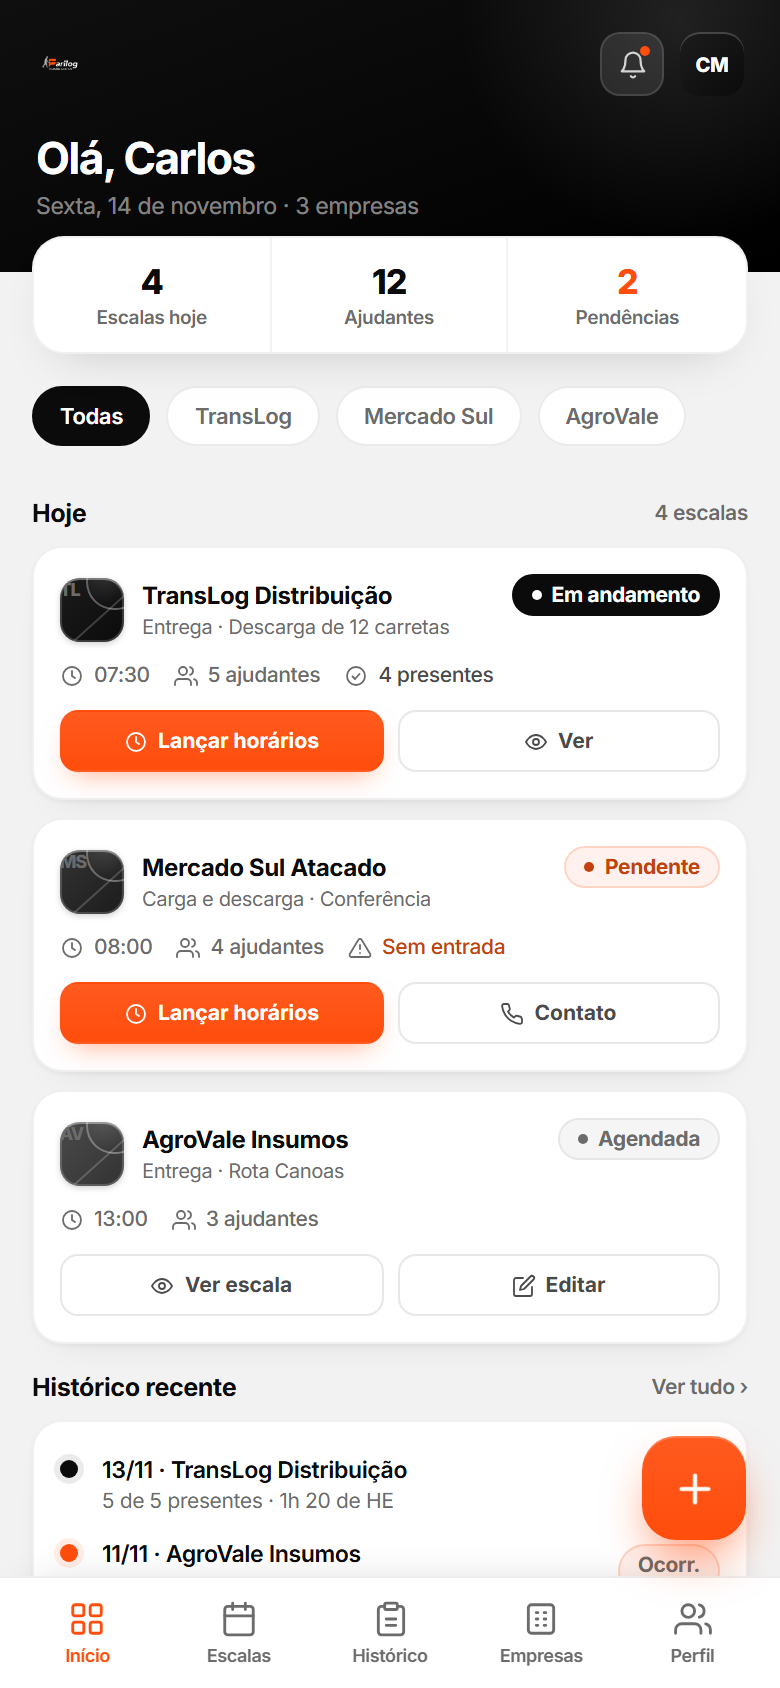
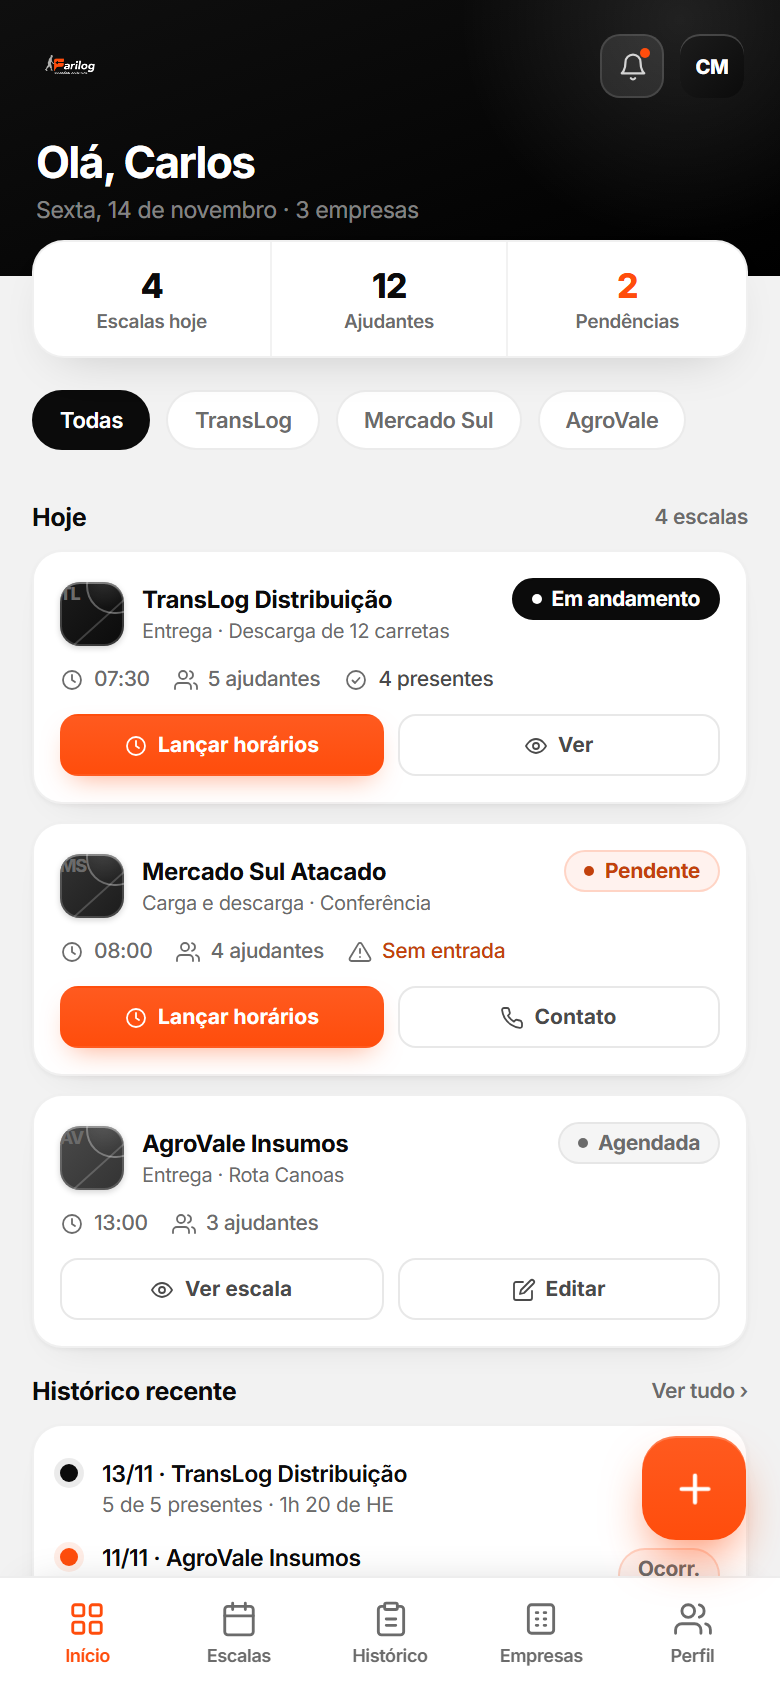
feat: sub-aba encarregados no admin (conta, criar conta e resetar senha)
- Prototipo da sub-aba Operacional > Encarregados: desempenho por empresa
  (diarias, faltas, pendencias, presenca, faturado) e historico de vinculos
- Modais de criar conta com senha direta e resetar senha sem e-mail
- Logo do encarregado maior no header mobile (24px -> 34px)
- Novas capturas 03e/03f/03g e demais shots regerados

diff --git a/prototype/encarregado-preview.html b/prototype/encarregado-preview.html
@@ -318,7 +318,7 @@ body.mobile .mcontent{padding:0 16px 104px}
 body.mobile .mheader{padding:16px 18px 26px;background:linear-gradient(160deg,#0F0F0F 0%,#000000 100%);color:#fff;position:relative;overflow:hidden}
 body.mobile .mheader:after{content:'';position:absolute;width:240px;height:240px;border-radius:50%;background:radial-gradient(circle,rgba(255,255,255,.10),transparent 65%);top:-110px;right:-70px}
 .mheader-top{display:flex;align-items:center;justify-content:space-between;position:relative;z-index:1}
-.mheader-top img{height:24px;max-width:100px;object-fit:contain}
+.mheader-top img{height:34px;max-width:130px;object-fit:contain}
 .mheader h2{font-size:22px;font-weight:700;letter-spacing:-.035em;margin-top:18px;position:relative;z-index:1}
 .mheader p{font-size:11.5px;color:rgba(255,255,255,.52);margin-top:4px;position:relative;z-index:1}
 .mheader .htools{display:flex;gap:8px;align-items:center;z-index:1;position:relative}
@@ -441,6 +441,7 @@ const NAV = {
   admin: [
     {k:'visao', label:'Visão Geral', icon:'grid'},
     {k:'operacional', label:'Operacional', icon:'briefcase', chevron:true},
+    {k:'operacional-encarregados', label:'Encarregados', icon:'userCheck', sub:true},
     {k:'financeiro', label:'Financeiro', icon:'dollar', chevron:true},
     {k:'rh', label:'RH', icon:'users', chevron:true},
     {k:'empresas', label:'Empresas', icon:'building'},
@@ -477,8 +478,8 @@ function sidebar(role, active){
     <div class="logo-wrap">${logoImg(72)}</div>
     <p class="menu-label">Menu</p>
     <nav class="nav">
-      ${items.map(it=>`<a class="nav-link ${active===it.k?'active':''}" href="#${home}?tab=${it.k}">
-        ${ic(it.icon,17)}
+      ${items.map(it=>`<a class="nav-link ${active===it.k?'active':''}" href="#${home}?tab=${it.k}" ${it.sub?'style="padding-left:38px;font-size:12.5px;opacity:.92"':''}>
+        ${ic(it.icon,it.sub?14:17)}
         <span>${it.label}</span>
         ${it.badge?`<span class="nav-badge">${it.badge}</span>`:''}
         ${it.chevron?`<span style="margin-left:auto;color:#8A8A8A">${ic('chevronDown',12)}</span>`:''}
@@ -751,6 +752,188 @@ function pickItem(c, sel){
     ${compAv(c,28,8,9)}
     <div style="min-width:0;flex:1"><b>${c.name}</b><span>${c.city}</span></div>
     <span class="check">${sel?ic('check',11,2.6):''}</span>
+  </div>`;
+}
+
+/* ============================================================
+   ADMIN — CONTA DO ENCARREGADO
+   Sub-aba dentro de Operacional: andamento das diárias, faltas,
+   pendências, % de presença e total faturado por empresa,
+   com histórico de vínculos (trocas de encarregado registradas).
+============================================================ */
+const LIDER_DESEMPENHO = [
+  {co:'tl', diarias:42, faltas:2, pend:1, presenca:95, faturado:6480},
+  {co:'ms', diarias:18, faltas:0, pend:0, presenca:100, faturado:2820},
+  {co:'av', diarias:11, faltas:1, pend:2, presenca:92, faturado:1720},
+];
+const LIDER_VINCULOS = [
+  {co:'tl', de:'01/08/2026', ate:'Atual', tipo:'atual'},
+  {co:'ms', de:'01/08/2026', ate:'Atual', tipo:'atual'},
+  {co:'av', de:'02/10/2026', ate:'Atual', tipo:'atual'},
+  {co:'ca', de:'15/03/2026', ate:'31/07/2026', tipo:'passado', quem:'Substituído por Juliana Rocha'},
+];
+const LIDER_ATIVIDADE = [
+  {d:'Hoje · 07:32', txt:'Lançou entrada de 4 ajudantes · TransLog Distribuição', ok:true},
+  {d:'Ontem · 18:05', txt:'Lançou saída e HE da escala · Mercado Sul Atacado', ok:true},
+  {d:'12/11 · 09:41', txt:'Registrou ocorrência: 1 falta não justificada · AgroVale', ok:false},
+  {d:'11/11 · 16:20', txt:'Finalizou escala com 3 de 4 presentes · AgroVale', ok:true},
+];
+
+function adminContaEncarregado(){
+  const lider = {n:'Carlos Mendes', email:'carlos.mendes@farilog.com', phone:'(51) 99876-1234', ini:'CM', color:'linear-gradient(135deg,#1C1C1C,#0B0B0B)', desde:'01/08/2026', ultimo:'há 12 min'};
+  const tot = LIDER_DESEMPENHO.reduce((s,r)=>({diarias:s.diarias+r.diarias, faltas:s.faltas+r.faltas, pend:s.pend+r.pend, faturado:s.faturado+r.faturado}),{diarias:0,faltas:0,pend:0,faturado:0});
+  const presencaMedia = Math.round(LIDER_DESEMPENHO.reduce((s,r)=>s+r.presenca,0)/LIDER_DESEMPENHO.length);
+  return `<div class="layout">
+    ${sidebar('admin','operacional')}
+    <div class="main">
+      ${topbar('Operacional · Encarregados','RF')}
+      <div class="page">
+        <button class="link" style="margin-bottom:14px;color:#6B6B6B">${ic('arrowLeft',13)} Voltar para Operacional</button>
+
+        <div class="card pad" style="margin-bottom:16px">
+          <div style="display:flex;align-items:center;justify-content:space-between;gap:14px;flex-wrap:wrap">
+            <div style="display:flex;align-items:center;gap:13px">
+              <span class="avatar" style="width:52px;height:52px;border-radius:15px;font-size:15px;background:${lider.color}">${lider.ini}</span>
+              <div>
+                <b style="font-size:16px;display:block;letter-spacing:-.02em">${lider.n}</b>
+                <span style="font-size:11.5px;color:#6B6B6B">${lider.email} · ${lider.phone}</span>
+                <div style="display:flex;gap:6px;margin-top:6px">
+                  <span class="badge b-green">Ativo</span>
+                  <span class="badge b-gray">Conta desde ${lider.desde}</span>
+                  <span class="badge b-gray">Último acesso ${lider.ultimo}</span>
+                </div>
+              </div>
+            </div>
+            <div style="display:flex;gap:8px;flex-wrap:wrap">
+              <button class="btn btn-ghost btn-sm" style="padding:9px 13px">${ic('whatsapp',13)} WhatsApp</button>
+              <button class="btn btn-soft btn-sm" style="padding:9px 13px">${ic('edit',13)} Editar dados</button>
+              <button class="btn btn-primary btn-sm" style="padding:9px 13px">${ic('lock',13)} Resetar senha</button>
+            </div>
+          </div>
+        </div>
+
+        <div class="stats" style="grid-template-columns:repeat(5,1fr)">
+          <div class="card stat"><span class="stat-ico" style="background:#F5F5F5;color:#333333">${ic('briefcase',19)}</span><div><b>${tot.diarias}</b><p>Diárias (30 dias)</p><small style="color:#6B6B6B">3 empresas ativas</small></div></div>
+          <div class="card stat"><span class="stat-ico" style="background:#FFF2EE;color:#FF4D0C">${ic('x',19)}</span><div><b>${tot.faltas}</b><p>Faltas</p><small style="color:#C2410C">2 não justificadas</small></div></div>
+          <div class="card stat"><span class="stat-ico" style="background:#FFF2EE;color:#FF4D0C">${ic('alert',19)}</span><div><b>${tot.pend}</b><p>Pendências</p><small style="color:#C2410C">Horários a lançar</small></div></div>
+          <div class="card stat"><span class="stat-ico" style="background:#F5F5F5;color:#333333">${ic('checkCircle',19)}</span><div><b>${presencaMedia}%</b><p>Presença</p><small style="color:#4A4A4A">Média das empresas</small></div></div>
+          <div class="card stat"><span class="stat-ico" style="background:#F5F5F5;color:#4A4A4A">${ic('dollar',19)}</span><div><b>${brl(tot.faturado)}</b><p>Faturado (30 dias)</p><small style="color:#6B6B6B">Diárias + HE das empresas dele</small></div></div>
+        </div>
+
+        <div class="card" style="margin-bottom:16px;overflow:hidden">
+          <div style="padding:14px 20px;border-bottom:1px solid rgba(0,0,0,.05);display:flex;align-items:center;justify-content:space-between;background:#FAFAFA">
+            <b style="font-size:12.5px">Desempenho por empresa</b>
+            <span class="badge b-gray">Últimos 30 dias</span>
+          </div>
+          <div class="table-head" style="grid-template-columns:1.4fr 90px 80px 100px 110px 130px">
+            <span>Empresa</span><span style="text-align:center">Diárias</span><span style="text-align:center">Faltas</span><span style="text-align:center">Pendências</span><span style="text-align:center">Presença</span><span style="text-align:right">Faturado</span>
+          </div>
+          ${LIDER_DESEMPENHO.map(r=>{const c=byId[r.co];return `<div class="trow" style="grid-template-columns:1.4fr 90px 80px 100px 110px 130px;padding-top:12px;padding-bottom:12px">
+            <div class="cell-main">${compAv(c,30,9,9)}<div><b>${c.name}</b><span>${c.city}</span></div></div>
+            <span style="text-align:center;font-size:12px;font-weight:700">${r.diarias}</span>
+            <span style="text-align:center;font-size:12px;font-weight:700;color:${r.faltas?'#C2410C':'#6B6B6B'}">${r.faltas}</span>
+            <span style="text-align:center;font-size:12px;font-weight:700;color:${r.pend?'#C2410C':'#6B6B6B'}">${r.pend}</span>
+            <div style="display:flex;align-items:center;gap:7px;justify-content:center">
+              <div class="progress" style="width:56px;height:6px"><i style="width:${r.presenca}%"></i></div>
+              <span style="font-size:11px;font-weight:700">${r.presenca}%</span>
+            </div>
+            <span style="text-align:right;font-size:12.5px;font-weight:700">${brl(r.faturado)}</span>
+          </div>`}).join('')}
+          <div style="padding:12px 20px;background:#F7F7F7;display:flex;justify-content:flex-end;gap:24px;font-size:12px">
+            <span style="color:#6B6B6B">Total do período:</span><b>${brl(tot.faturado)}</b>
+          </div>
+        </div>
+
+        <div style="display:grid;grid-template-columns:1.25fr 1fr;gap:16px;align-items:start">
+          <div class="card pad">
+            <div class="section-title" style="margin-bottom:10px"><span>Empresas e períodos</span><span class="badge b-gray">Histórico de vínculos</span></div>
+            <p class="helper" style="margin:0 0 12px">Trocas de encarregado ficam registradas: o desempenho de cada empresa considera apenas o período em que ele foi o responsável.</p>
+            ${LIDER_VINCULOS.map(v=>{const c=byId[v.co];return `
+            <div class="pay-day">
+              ${compAv(c,32,10,9)}
+              <div class="info"><b>${c.name}</b><span>De ${v.de} até ${v.ate}${v.quem?' · '+v.quem:''}</span></div>
+              <span class="badge ${v.tipo==='atual'?'b-green':'b-gray'}">${v.tipo==='atual'?'Responsável atual':'Encerrado'}</span>
+            </div>`}).join('')}
+            <div style="display:flex;align-items:center;gap:7px;background:#F7F7F7;border-radius:9px;padding:8px 11px;margin-top:10px">
+              ${ic('activity',13)} <span style="font-size:10.5px;color:#4A4A4A">Ao trocar o responsável de uma empresa, o período do antigo é encerrado na data da troca e o novo começa a contar do mesmo dia.</span>
+            </div>
+          </div>
+
+          <div class="card pad">
+            <div class="section-title" style="margin-bottom:10px"><span>Atividade recente</span><button class="link">Ver tudo</button></div>
+            ${LIDER_ATIVIDADE.map(a=>`
+            <div class="hist-item"><span class="hist-dot ${a.ok?'':'warn'}"></span><div style="flex:1"><b>${a.txt}</b><span>${a.d}</span></div></div>`).join('')}
+          </div>
+        </div>
+      </div>
+    </div>
+  </div>`;
+}
+
+/* ADMIN — NOVO ENCARREGADO (conta com e-mail e senha definidos direto) */
+function adminNovoConta(){
+  return adminContaEncarregado() + `<div class="overlay">
+    <div class="modal">
+      <div class="modal-head">
+        <div class="modal-kicker">
+          <span class="modal-ico">${ic('userPlus',19)}</span>
+          <div><h2>Criar conta de encarregado</h2><p>Defina e-mail e senha diretamente — sem envio de confirmação por e-mail.</p></div>
+        </div>
+        <button class="xbtn">${ic('x',14)}</button>
+      </div>
+      <div class="modal-body">
+        <div class="field"><label>Nome completo</label><input class="input" placeholder="Ex.: Paulo Andrade" /></div>
+        <div class="grid2">
+          <div class="field"><label>E-mail de acesso</label><input class="input" placeholder="paulo@farilog.com" /></div>
+          <div class="field"><label>Telefone / WhatsApp</label><input class="input" placeholder="(51) 90000-0000" /></div>
+        </div>
+        <div class="grid2">
+          <div class="field"><label>Senha de acesso</label><input class="input" type="text" value="farilog2026" style="font-family:monospace" /></div>
+          <div class="field"><label>Status do acesso</label>
+            <div style="display:flex;align-items:center;gap:9px;padding:9px 12px;border:1.5px solid rgba(0,0,0,.10);background:#F5F5F5;border-radius:11px">
+              <span style="width:18px;height:18px;border-radius:6px;background:#0B0B0B;display:flex;align-items:center;justify-content:center;color:#fff">${ic('check',11,2.6)}</span>
+              <span style="font-size:12px;font-weight:600;color:#0B0B0B">Ativo — pode acessar agora</span>
+            </div>
+          </div>
+        </div>
+
+        <div class="divider"></div>
+        <div class="section-h"><b>Empresas responsáveis</b><span>Selecione ao criar</span></div>
+        <p class="helper">O período de responsabilidade de cada empresa começa na data de hoje e fica registrado na conta dele.</p>
+        <div class="pick-grid">
+          ${pickItem(byId.tl,false)}${pickItem(byId.ms,false)}${pickItem(byId.av,false)}
+          ${pickItem(byId.ca,false)}${pickItem(byId.rn,false)}${pickItem(byId.dv,false)}
+        </div>
+      </div>
+      <div class="modal-foot">
+        <span class="foot-note">${ic('lock',12)} A senha fica visível para o admin e pode ser trocada a qualquer momento.</span>
+        <button class="btn btn-ghost">Cancelar</button>
+        <button class="btn btn-primary">${ic('check',14)} Criar conta</button>
+      </div>
+    </div>
+  </div>`;
+}
+
+/* ADMIN — RESETAR SENHA (troca direta, sem e-mail) */
+function adminResetSenha(){
+  return adminContaEncarregado() + `<div class="overlay">
+    <div class="modal" style="max-width:460px">
+      <div class="modal-head">
+        <div class="modal-kicker">
+          <span class="modal-ico">${ic('lock',19)}</span>
+          <div><h2>Resetar senha</h2><p>Carlos Mendes · carlos.mendes@farilog.com</p></div>
+        </div>
+        <button class="xbtn">${ic('x',14)}</button>
+      </div>
+      <div class="modal-body">
+        <div class="field"><label>Nova senha (escrita direta)</label><input class="input" type="text" value="novaSenha2026" style="font-family:monospace" /></div>
+        <div class="hist-note">${ic('checkCircle',13)} A troca é imediata: na próxima tentativa de login ele usa a nova senha. Nenhum e-mail é enviado.</div>
+      </div>
+      <div class="modal-foot">
+        <button class="btn btn-ghost">Cancelar</button>
+        <button class="btn btn-primary">${ic('check',14)} Salvar nova senha</button>
+      </div>
+    </div>
   </div>`;
 }
 
@@ -1366,7 +1549,7 @@ function mobileDash(){
   return `
   <div class="mheader">
     <div class="mheader-top">
-      ${logoImg(24)}
+      ${logoImg(34)}
       <div class="htools">
         <span class="micon">${ic('bell',15)}<span class="dot"></span></span>
         <span class="avatar">CM</span>
@@ -1465,7 +1648,7 @@ function mobilePagamentos(){
   return `
   <div class="mheader" style="padding-bottom:22px">
     <div class="mheader-top">
-      ${logoImg(24)}
+      ${logoImg(34)}
       <div class="htools">
         <span class="micon">${ic('bell',15)}<span class="dot"></span></span>
         <span class="avatar">CM</span>
@@ -1621,6 +1804,9 @@ else if(view === 'admin-novo') html = adminNovo();
 else if(view === 'admin-editar') html = adminEditar();
 else if(view === 'admin-empresa-nova') html = adminNovaEmpresa();
 else if(view === 'admin-relatorios') html = adminRelatorios();
+else if(view === 'admin-conta-encarregado') html = adminContaEncarregado();
+else if(view === 'admin-novo-conta') html = adminNovoConta();
+else if(view === 'admin-reset-senha') html = adminResetSenha();
 else if(view === 'lider') html = liderDesktop();
 else if(view === 'lider-pagamentos') html = liderPagamentos();
 else if(view === 'lider-horarios') html = liderHorarios();
